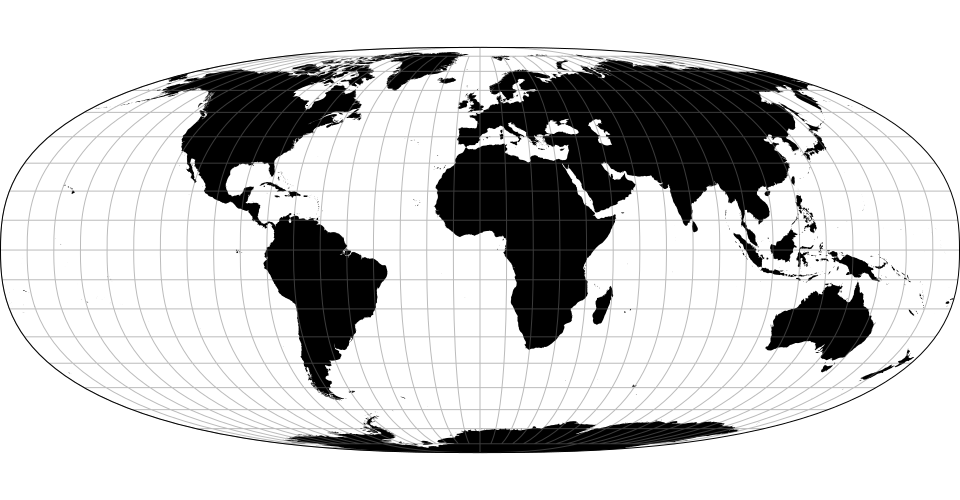
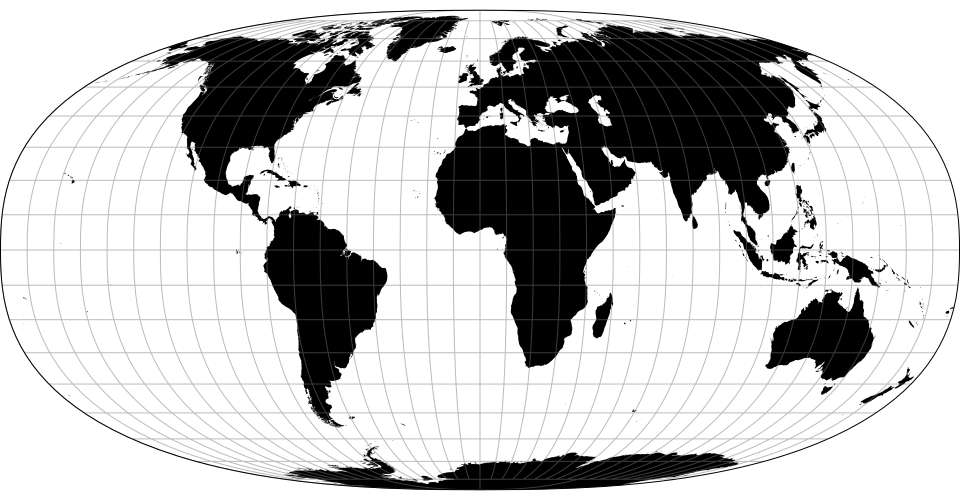
fix inverse and fix image

Changed region(s): [[0.0, 0.0, 1.0, 0.99]]

diff --git a/src/hyperelliptical.js b/src/hyperelliptical.js
@@ -38,7 +38,7 @@ export function hyperellipticalRaw(alpha, k, gamma) {
   forward.invert = function(x, y) {
     var phi;
     y *= ratio;
-    if (abs(y) < 1) phi = sign(y) * asin(z(abs(y)) / gamma);
+    if (abs(y) < 1) phi = sign(y) * asin(z(abs(y)) * G);
     return [ x / elliptic(abs(y)), phi ];
   };
     
